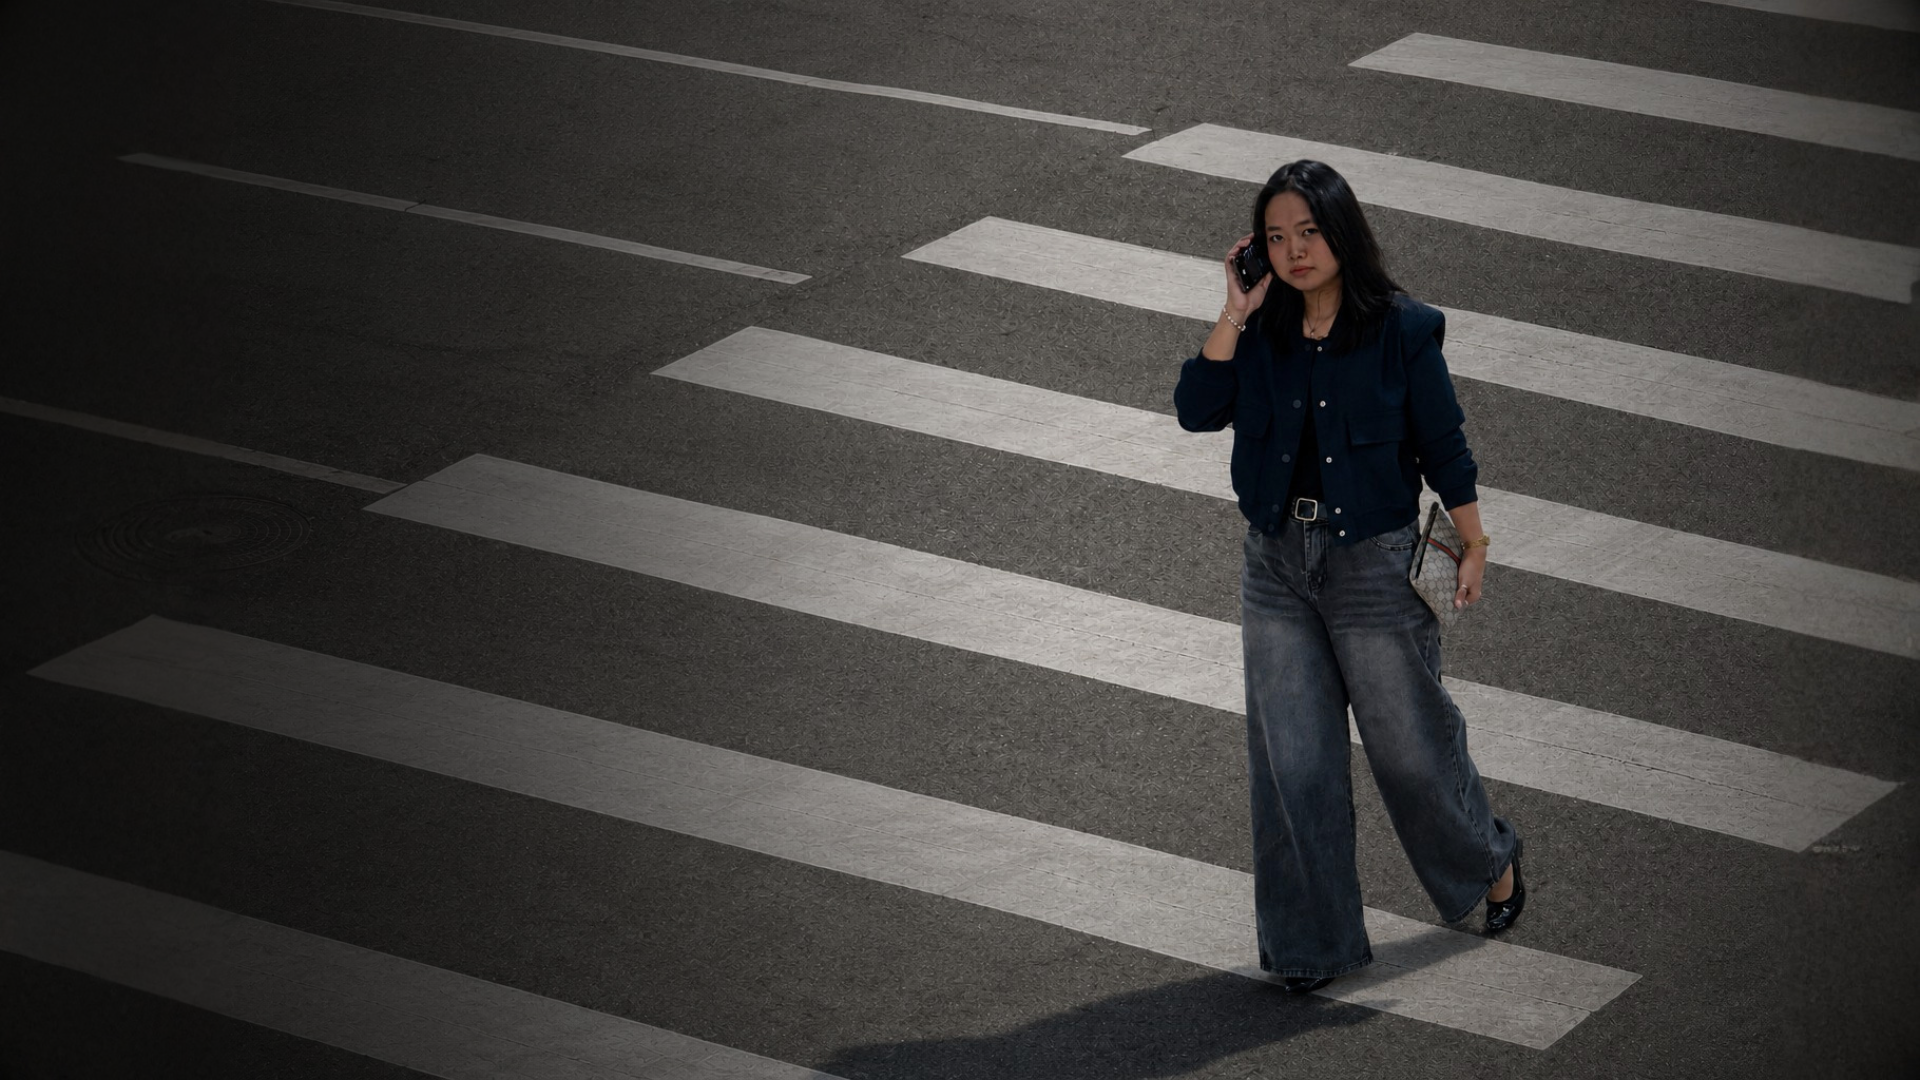
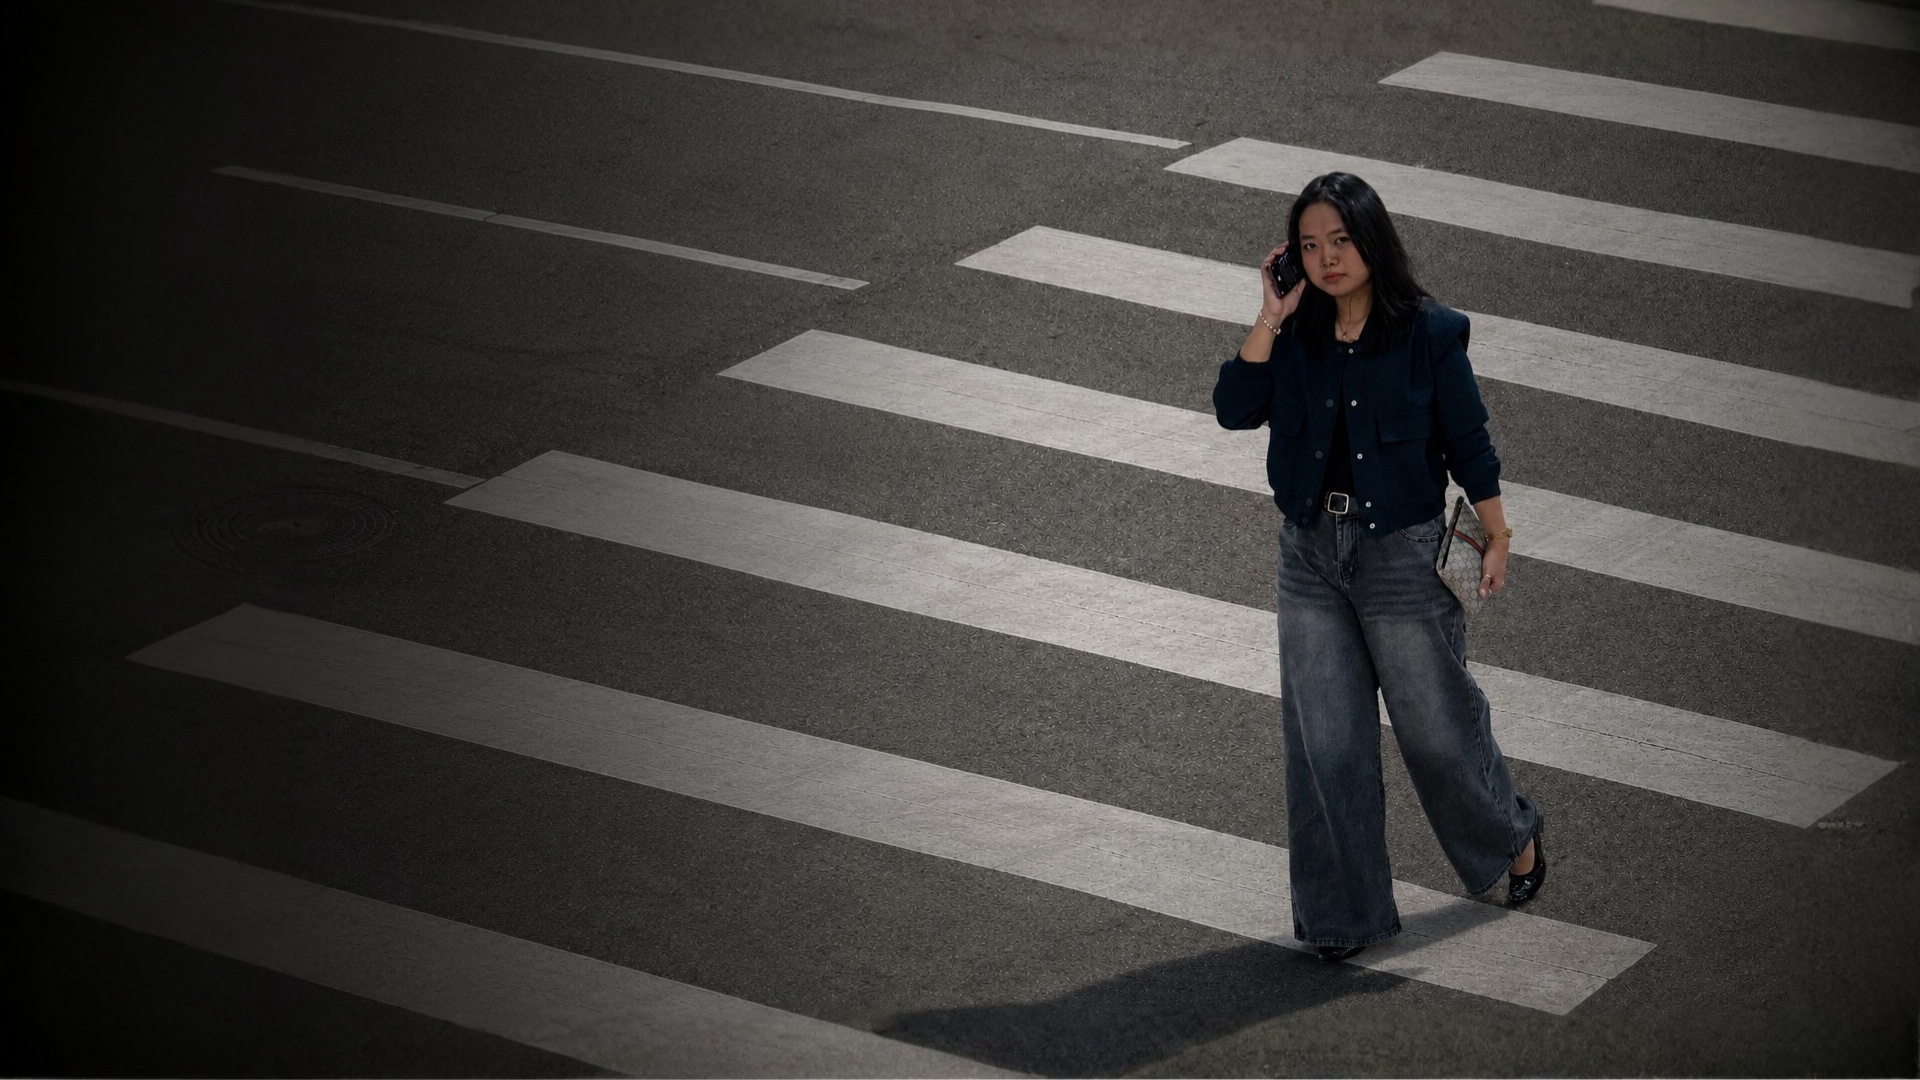
finalized hero content

diff --git a/src/App.css b/src/App.css
@@ -8,7 +8,7 @@
   --line: rgba(0, 0, 0, 0.08);
   --shadow-soft: 0 10px 28px rgba(15, 15, 15, 0.08);
   --max-content: 1200px;
-  --nav-height: 74px;
+  --nav-height: 54px;
 }
 
 * {
@@ -17,6 +17,11 @@
 
 html {
   scroll-behavior: smooth;
+  scrollbar-width: none;
+}
+
+html::-webkit-scrollbar {
+  display: none;
 }
 
 body {
@@ -24,6 +29,12 @@ body {
   color: var(--ink);
   background: var(--paper);
   font-family: "Source Sans 3", "Segoe UI", sans-serif;
+  -ms-overflow-style: none;
+  scrollbar-width: none;
+}
+
+body::-webkit-scrollbar {
+  display: none;
 }
 
 main {
@@ -35,11 +46,24 @@ main {
   min-height: 100vh;
   width: 100%;
   background-size: cover;
-  background-position: center;
+  background-position: center 58%;
   background-repeat: no-repeat;
   display: flex;
   align-items: center;
   overflow: hidden;
+}
+
+@media (min-aspect-ratio: 16 / 9) {
+  .hero {
+    background-size: 100% auto;
+  }
+}
+
+@media (max-aspect-ratio: 16 / 9) {
+  .hero {
+    background-size: cover;
+    background-position: center 60%;
+  }
 }
 
 .hero-overlay {
@@ -61,8 +85,10 @@ main {
 .hero-content {
   position: relative;
   z-index: 2;
-  width: min(90%, var(--max-content));
-  margin: 0 auto;
+  width: min(56vw, 680px);
+  margin: 0 0 0 20vw;
+  transform: none;
+  will-change: opacity, transform;
   color: #f5f5f5;
   padding-top: min(8vh, 80px);
   animation: fade-up 900ms cubic-bezier(0.2, 0.72, 0.2, 1) both;
@@ -94,10 +120,6 @@ main {
   color: rgba(245, 245, 245, 0.92);
 }
 
-.nav-sentinel {
-  height: 1px;
-}
-
 .navbar {
   position: sticky;
   top: 0;
@@ -105,7 +127,8 @@ main {
   background: #ffffff;
   border-top: 1px solid rgba(255, 255, 255, 0.55);
   border-bottom: 1px solid var(--line);
-  transition: box-shadow 250ms ease, border-color 250ms ease;
+  transition: box-shadow 260ms ease, border-color 260ms ease;
+  margin-top: calc(var(--nav-height) * -1);
 }
 
 .navbar.is-sticky {
@@ -115,7 +138,7 @@ main {
 
 .navbar-inner {
   height: var(--nav-height);
-  width: min(94%, var(--max-content));
+  width: 100%;
   margin: 0 auto;
   position: relative;
   display: flex;
@@ -125,19 +148,21 @@ main {
 
 .nav-logo-wrap {
   position: absolute;
-  left: 0;
+  left: clamp(18px, 2.4vw, 30px);
   top: 50%;
-  transform: translateY(-50%);
+  transform: translateY(calc(-50% + 4px));
   opacity: 0;
-  transition: opacity 260ms ease;
+  transition: opacity 260ms ease, transform 260ms ease;
+  pointer-events: none;
 }
 
 .navbar.is-sticky .nav-logo-wrap {
   opacity: 1;
+  transform: translateY(-50%);
 }
 
 .nav-logo {
-  width: clamp(28px, 2.3vw, 40px);
+  width: clamp(22px, 1.8vw, 30px);
   height: auto;
   object-fit: contain;
   filter: brightness(0) saturate(100%);
@@ -145,8 +170,11 @@ main {
 
 .nav-links {
   display: grid;
-  grid-template-columns: repeat(4, minmax(100px, 1fr));
-  gap: clamp(10px, 2vw, 36px);
+  grid-template-columns: repeat(4, max-content);
+  justify-content: center;
+  gap: clamp(50px, 3vw, 40px);
+  width: 100%;
+  justify-items: center;
 }
 
 .nav-link {
@@ -159,7 +187,7 @@ main {
   font-size: clamp(1.05rem, 1.35vw, 1.55rem);
   letter-spacing: 0.04em;
   text-transform: uppercase;
-  padding: 10px 4px;
+  padding: 5px 4px;
   position: relative;
   transition: color 220ms ease;
 }
@@ -374,7 +402,8 @@ button {
   }
 
   .hero-content {
-    width: min(92%, 900px);
+    width: min(84%, 520px);
+    margin-left: clamp(20px, 7vw, 70px);
     padding-top: 14vh;
   }
 
@@ -395,8 +424,8 @@ button {
   }
 
   .nav-links {
-    grid-template-columns: repeat(4, minmax(64px, 1fr));
-    gap: 4px;
+    grid-template-columns: repeat(4, max-content);
+    gap: 10px;
   }
 
   .nav-link {
@@ -416,6 +445,8 @@ button {
   }
 
   .hero-content {
+    width: min(88%, 360px);
+    margin-left: clamp(16px, 5vw, 26px);
     padding-top: 11vh;
   }
 
@@ -433,7 +464,8 @@ button {
   }
 
   .nav-links {
-    grid-template-columns: repeat(4, minmax(58px, 1fr));
+    grid-template-columns: repeat(4, max-content);
+    gap: 8px;
   }
 
   .nav-link {

diff --git a/src/components/Navbar.jsx b/src/components/Navbar.jsx
@@ -3,23 +3,43 @@ import stickyLogo from "../assets/iconw.png";
 
 function Navbar({ items, activeSection }) {
   const [isSticky, setIsSticky] = useState(false);
-  const sentinelRef = useRef(null);
+  const navbarRef = useRef(null);
 
   useEffect(() => {
-    if (!sentinelRef.current) return undefined;
+    const navbarElement = navbarRef.current;
 
-    const observer = new IntersectionObserver(
-      ([entry]) => {
-        setIsSticky(!entry.isIntersecting);
-      },
-      {
-        threshold: [1],
-      },
-    );
+    if (!navbarElement) return undefined;
 
-    observer.observe(sentinelRef.current);
+    const getStickyPoint = () => navbarElement.offsetTop;
 
-    return () => observer.disconnect();
+    let stickyPoint = getStickyPoint();
+    let ticking = false;
+
+    const updateStickyState = () => {
+      const shouldStick = window.scrollY >= stickyPoint;
+      setIsSticky((current) => (current === shouldStick ? current : shouldStick));
+      ticking = false;
+    };
+
+    const handleScroll = () => {
+      if (ticking) return;
+      ticking = true;
+      window.requestAnimationFrame(updateStickyState);
+    };
+
+    const handleResize = () => {
+      stickyPoint = getStickyPoint();
+      updateStickyState();
+    };
+
+    updateStickyState();
+    window.addEventListener("scroll", handleScroll, { passive: true });
+    window.addEventListener("resize", handleResize);
+
+    return () => {
+      window.removeEventListener("scroll", handleScroll);
+      window.removeEventListener("resize", handleResize);
+    };
   }, []);
 
   const handleNavClick = (id) => {
@@ -30,32 +50,28 @@ function Navbar({ items, activeSection }) {
   };
 
   return (
-    <>
-      <div ref={sentinelRef} className="nav-sentinel" aria-hidden="true" />
-
-      <header className={`navbar ${isSticky ? "is-sticky" : ""}`}>
-        <div className="navbar-inner">
-          <div className="nav-logo-wrap" aria-hidden={!isSticky}>
-            <img src={stickyLogo} alt="Dorothy logo" className="nav-logo" />
-          </div>
-
-          <nav className="nav-links" aria-label="Primary Navigation">
-            {items.map((item) => (
-              <button
-                key={item.id}
-                type="button"
-                className={`nav-link ${
-                  activeSection === item.id ? "is-active" : ""
-                }`}
-                onClick={() => handleNavClick(item.id)}
-              >
-                {item.label}
-              </button>
-            ))}
-          </nav>
+    <header ref={navbarRef} className={`navbar ${isSticky ? "is-sticky" : ""}`}>
+      <div className="navbar-inner">
+        <div className="nav-logo-wrap" aria-hidden={!isSticky}>
+          <img src={stickyLogo} alt="Dorothy logo" className="nav-logo" />
         </div>
-      </header>
-    </>
+
+        <nav className="nav-links" aria-label="Primary Navigation">
+          {items.map((item) => (
+            <button
+              key={item.id}
+              type="button"
+              className={`nav-link ${
+                activeSection === item.id ? "is-active" : ""
+              }`}
+              onClick={() => handleNavClick(item.id)}
+            >
+              {item.label}
+            </button>
+          ))}
+        </nav>
+      </div>
+    </header>
   );
 }
 

diff --git a/src/App.jsx b/src/App.jsx
@@ -12,10 +12,10 @@ import Footer from "./components/Footer";
 function App() {
   const navItems = useMemo(
     () => [
-      { label: "ABOUT", id: "about" },
-      { label: "SKILLS", id: "skills" },
-      { label: "PROJECTS", id: "projects" },
-      { label: "CONTACT", id: "contact" },
+      { label: "About", id: "about" },
+      { label: "Skills", id: "skills" },
+      { label: "Projects", id: "projects" },
+      { label: "Contact", id: "contact" },
     ],
     [],
   );
